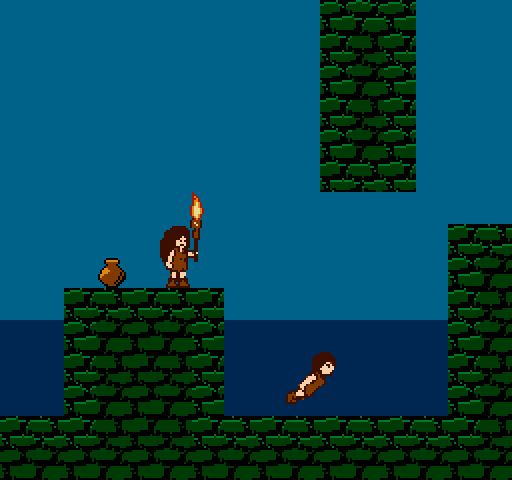
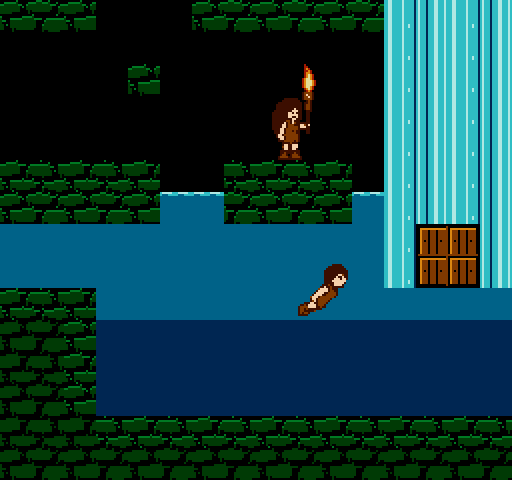
Redraw the under-the-ice picture in The fire is lit

diff --git a/src/content/news/the-fire-is-lit.md b/src/content/news/the-fire-is-lit.md
@@ -8,4 +8,4 @@ coverCaption: Kesa and Brimi, and the last fire of the Eld.
 draft: false
 ---
 
-<p>One Flame is an original game for the NES by <a href="https://oneflamegame.com/rance9" rel="noreferrer">Rance9</a>, made to run on the console itself as well as everywhere else NES games are played today. OneFlameGame.com is its home.</p><blockquote>Two children. One fire. A whole ice age to cross.</blockquote><h2>The last fire</h2><p>The cold came and did not leave. One by one the fires of the Eld went out, until a single torch was all that was left. Kesa and Brimi carry it out of the cave and across the ice, toward the Great Ember, the mountain that smokes. They were told one thing: <em>light every hearth you find.</em></p><figure><img src="/news/the-beacon.png" alt="Kesa with the torch and Brimi beside an unlit beacon on a snowy ledge, a log hung on ropes over the gap"><figcaption>A beacon on the white slope, waiting for the torch.</figcaption></figure><h2>One torch between two</h2><ul><li>Pass the torch when you're side by side, or throw it across a gap.</li><li>Feed the flame with wood. As it burns down, the circle of light shrinks with it.</li><li>The one holding the torch can barely fight. The other finds clubs, spears and axes along the trail.</li><li>Play together, one child each, or alone with the computer playing the other child.</li></ul><figure><img src="/news/the-frozen-fall.png" alt="Kesa with the torch and Brimi on an ice ledge at the top of a frozen waterfall, a carved stone between them"><figcaption>At the top of the frozen fall.</figcaption></figure><p>Water splits the work too. The torch can't go under, so the child with free hands dives and swims while the other keeps the fire above the water.</p><figure><img src="/news/under-the-ice.png" alt="Kesa holding the torch on a rock pillar under the river ice, Brimi diving in the water beside her"><figcaption>Under the river ice.</figcaption></figure><h2>Where you'll play it</h2><p>When it's out, One Flame will be free on Steam, including Steam Deck and Steam Machine, and on iPhone, iPad and Android. You'll also be able to play it in Classic Cart Studio, on an NES Classic Edition, in an NES emulator, or on an NES cartridge on the original console. The NES ROM will be a <a href="https://oneflamegame.com/download" rel="noreferrer">free download right here</a>.</p><p style="text-align: left;">Thanks for stopping by the fire.</p>
+<p>One Flame is an original game for the NES by <a href="https://oneflamegame.com/rance9" rel="noreferrer">Rance9</a>, made to run on the console itself as well as everywhere else NES games are played today. OneFlameGame.com is its home.</p><blockquote>Two children. One fire. A whole ice age to cross.</blockquote><h2>The last fire</h2><p>The cold came and did not leave. One by one the fires of the Eld went out, until a single torch was all that was left. Kesa and Brimi carry it out of the cave and across the ice, toward the Great Ember, the mountain that smokes. They were told one thing: <em>light every hearth you find.</em></p><figure><img src="/news/the-beacon.png" alt="Kesa with the torch and Brimi beside an unlit beacon on a snowy ledge, a log hung on ropes over the gap"><figcaption>A beacon on the white slope, waiting for the torch.</figcaption></figure><h2>One torch between two</h2><ul><li>Pass the torch when you're side by side, or throw it across a gap.</li><li>Feed the flame with wood. As it burns down, the circle of light shrinks with it.</li><li>The one holding the torch can barely fight. The other finds clubs, spears and axes along the trail.</li><li>Play together, one child each, or alone with the computer playing the other child.</li></ul><figure><img src="/news/the-frozen-fall.png" alt="Kesa with the torch and Brimi on an ice ledge at the top of a frozen waterfall, a carved stone between them"><figcaption>At the top of the frozen fall.</figcaption></figure><p>Water splits the work too. The torch can't go under, so the child with free hands dives and swims while the other keeps the fire above the water.</p><figure><img src="/news/under-the-ice.png" alt="Kesa holding the torch on a rock ledge in a cave under the river, Brimi diving in the water below her"><figcaption>Under the river ice.</figcaption></figure><h2>Where you'll play it</h2><p>When it's out, One Flame will be free on Steam, including Steam Deck and Steam Machine, and on iPhone, iPad and Android. You'll also be able to play it in Classic Cart Studio, on an NES Classic Edition, in an NES emulator, or on an NES cartridge on the original console. The NES ROM will be a <a href="https://oneflamegame.com/download" rel="noreferrer">free download right here</a>.</p><p style="text-align: left;">Thanks for stopping by the fire.</p>
